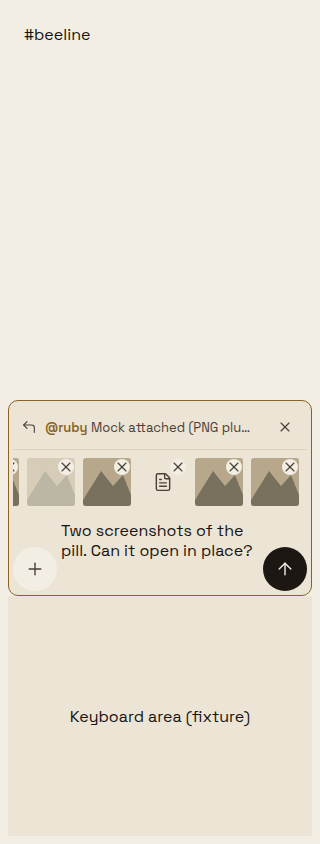
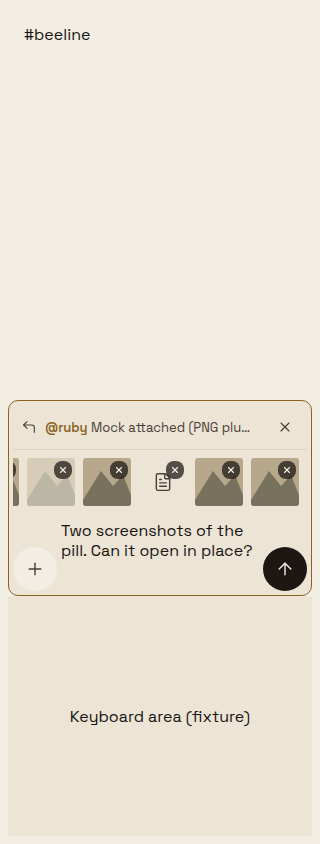
Match attachment tiles and remove badges to approved mock

diff --git a/apps/mobile/sources/ui/screens/composer/ComposerChrome.tsx b/apps/mobile/sources/ui/screens/composer/ComposerChrome.tsx
@@ -135,14 +135,14 @@ export function ComposerAttachment({ index, uri, name, mimeType, uploadState, bu
     return (
         <XStack gap="2" height={48} flexShrink={0} testID={`pending-chat-attachment-${index}`}>
         <YStack position="relative" width={48} height={48}>
-            <YStack width={48} height={48} borderRadius="house" overflow="hidden" opacity={uploading ? 0.4 : 1}
+            <YStack width={48} height={48} borderRadius="house" backgroundColor={mimeType.startsWith('image/') ? 'transparent' : 'raised'} overflow="hidden" opacity={uploading ? 0.4 : 1}
                 accessible accessibilityLiveRegion="polite" accessibilityState={{ busy: uploading }}
                 alignItems="center" justifyContent="center" aria-label={`${name}, ${failed ? 'upload failed' : uploading ? 'uploading' : 'ready'}`}>
                 {mimeType.startsWith('image/')
                     ? <Image src={uri} width={48} height={48} resizeMode="cover" />
                     : <Glyph icon={FileText} />}
             </YStack>
-            <CloseButton control position="absolute" top={0} right={0} accessibilityLabel={`Remove ${name}`} disabled={busy} onPress={onRemove} testID={`pending-chat-attachment-remove-${index}`} />
+            <CloseButton control position="absolute" top={2} right={2} accessibilityLabel={`Remove ${name}`} disabled={busy} onPress={onRemove} testID={`pending-chat-attachment-remove-${index}`} />
         </YStack>
             {failed && <Btn kind="quiet" label={`Retry uploading ${name}`} disabled={busy} onPress={onRetry} testID={`pending-chat-attachment-retry-${index}`}><T v="meta">Retry</T></Btn>}
         </XStack>

diff --git a/apps/mobile/sources/ui/grammar.tsx b/apps/mobile/sources/ui/grammar.tsx
@@ -511,7 +511,7 @@ export function SafeSides({ children }: { children: React.ReactNode }) {
  * style in one colour token as a plain, memoised TextStyle for them.
  */
 export type ColorToken = 'canvas' | 'raised' | 'highlight' | 'stroke' | 'strongStroke' | 'ink' | 'secondary'
-    | 'needsYou' | 'added' | 'removed' | 'primaryFill' | 'primaryInk' | 'transparent';
+    | 'needsYou' | 'added' | 'removed' | 'primaryFill' | 'primaryInk' | 'attachmentBadgeFill' | 'attachmentBadgeInk' | 'transparent';
 function useTypeStyle(v: Variant, color: ColorToken = 'ink'): import('react-native').TextStyle {
     const textSize = useTextSize();
     const ink = (useTheme() as Record<string, { val: string } | undefined>)[color]?.val;

diff --git a/apps/mobile/sources/components/buzz/CloseGlyph.tsx b/apps/mobile/sources/components/buzz/CloseGlyph.tsx
@@ -63,7 +63,7 @@ export function CloseButton({
       accessibilityRole="button"
       disabled={disabled}
       hitSlop={hitSlop}
-      icon={control ? <YStack position="absolute" top={0} right={0} backgroundColor="canvas" borderRadius="lg"><CloseGlyph /></YStack> : <CloseGlyph />}
+      icon={control ? <YStack position="absolute" top={0} right={0} width={18} height={18} alignItems="center" justifyContent="center" backgroundColor="attachmentBadgeFill" borderRadius="lg"><CloseGlyph size={10} color="attachmentBadgeInk" /></YStack> : <CloseGlyph />}
       iconOnly
       label=""
       onPress={onPress}

diff --git a/apps/mobile/sources/ui/tamagui.config.ts b/apps/mobile/sources/ui/tamagui.config.ts
@@ -38,6 +38,7 @@ function themeValues(mode: Mode, palette: Palette): Record<string, string> & { n
         ink: c.textPrimary, secondary: c.textSecondary,
         needsYou: c.accent, added: c.diffAdded, removed: c.diffRemoved,
         primaryFill: c.buttonPrimaryFill, primaryInk: c.buttonPrimaryText,
+        attachmentBadgeFill: `${beelineThemes.bone.textPrimary}b8`, attachmentBadgeInk: beelineThemes.bone.bgBase,
     };
     return theme;
 }

diff --git a/apps/mobile/evidence/composer-tray/AUDIT.md b/apps/mobile/evidence/composer-tray/AUDIT.md
@@ -10,7 +10,7 @@ The implementation uses the existing composer frame, SuggestionCard/Row, icon se
 
 - Both themes render at phone and desktop widths with the real production components and fonts. The before/after images sit next to the approved mock.
 - Measured whole-composer height stays (196 px) with either one or six attachments. Previously it grew from (227 px) to (394 px).
-- The thumbnail row measures (48 px) high. Each remove button measures (44 × 44 px), including the reply cancel control. Each thumbnail has the house radius and no surrounding card, border, count label or gradient.
+- The thumbnail row measures (48 px) high. Each remove button measures (44 × 44 px), including the reply cancel control. Each thumbnail has the house radius and no surrounding card, border, count label or gradient. Non-image thumbnails use the raised fill; the dark remove badge is (18 px), inset (2 px), with its original (44 px) target.
 - A synthesized Chromium touch swipe at phone width (320 px) scrolls the strip (50 px) and retains text-field focus. This is a browser touch test, not a claim about native keyboard gestures.
 - Uploading thumbnails are dimmed and expose a named, accessible, politely announced busy state. No spinner mounts in the attachment tray. Failed uploads retain a separately reachable Retry action alongside the thumbnail without increasing row height.
 - Reply content stays on one truncated line. The text field grows through four lines and then scrolls within its (92 px) limit.

diff --git a/apps/mobile/evidence/composer-tray/native/README.md b/apps/mobile/evidence/composer-tray/native/README.md
@@ -1,3 +1,5 @@
+> Historical gesture evidence captured before the document-fill and inset-badge correction. Current appearance is shown in the regenerated web comparisons.
+
 # Android native component evidence
 
 These are genuine Android emulator screenshots of the production ConversationComposer in an isolated Expo Go fixture. They are supplemental component evidence, not authenticated chat or end-to-end upload evidence. The top buttons and gear are fixture/Expo controls, outside the product.
